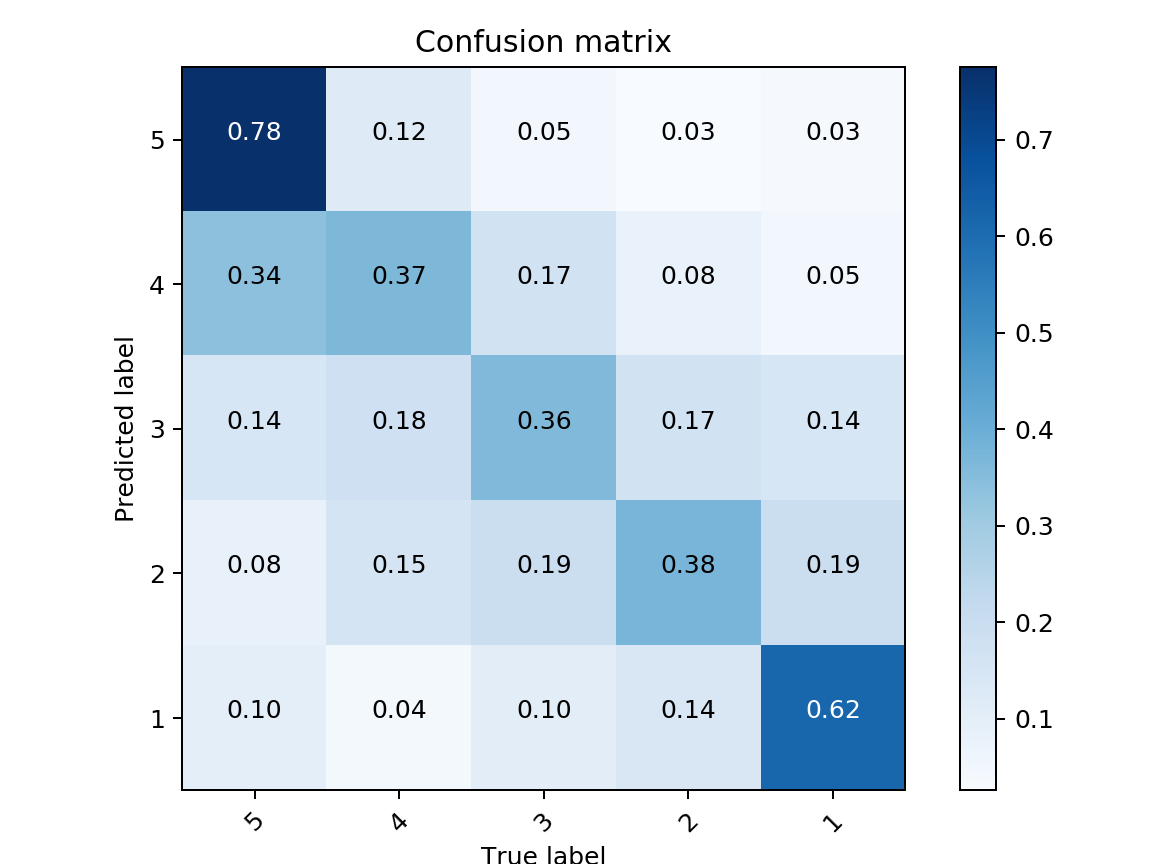
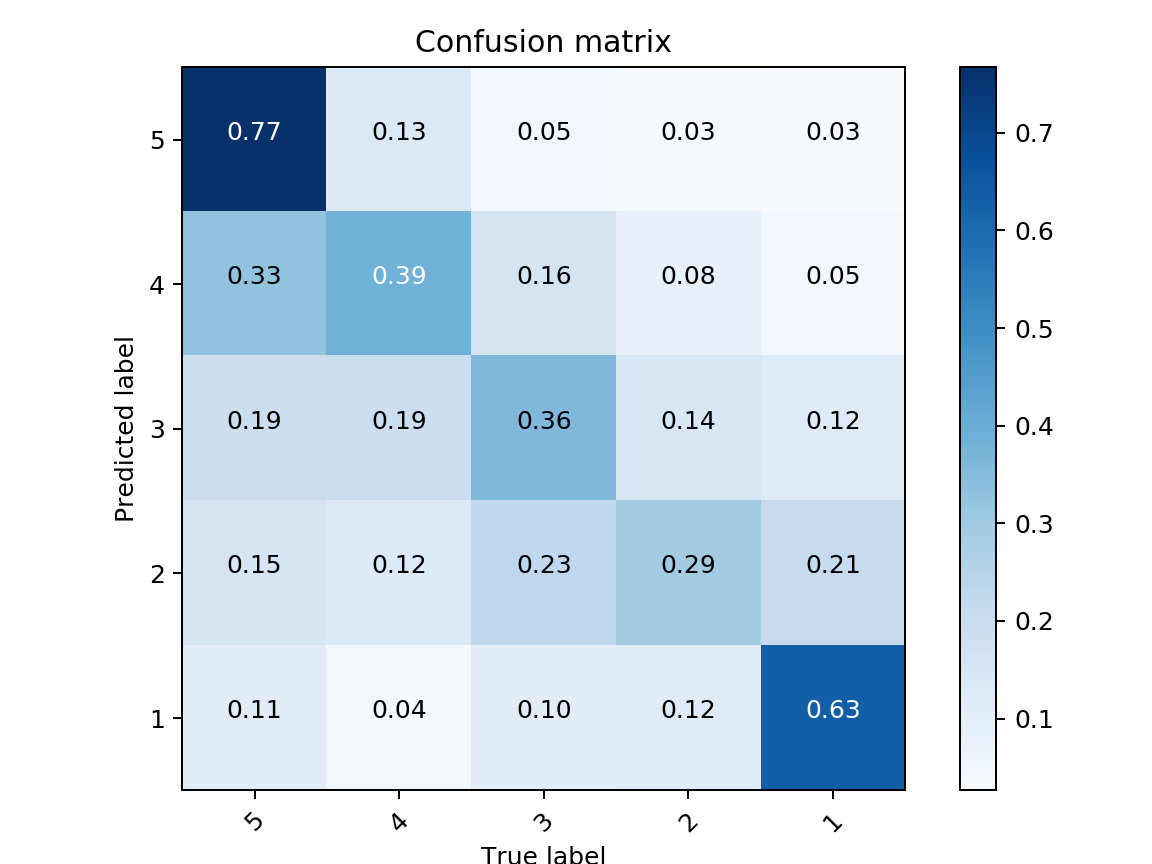
GUI update

diff --git a/gui/gui.py b/gui/gui.py
@@ -1,5 +1,6 @@
 import warnings
 warnings.filterwarnings("ignore",category=DeprecationWarning)
+warnings.filterwarnings("ignore",category=UserWarning)
 import sys
 import subprocess
 import pandas as pd
@@ -87,29 +88,41 @@ class App(QWidget):
 
         self.widget = QWidget(self)
 
-        self.regression_field = QLabel(self)
-        self.regression_field.setText('Label for regression model:')
+        self.type_model = QLabel(self)
+        self.type_model.setText('Type of model:')
         self.radio_group1 = QButtonGroup(self.widget)
+        self.logistic_regression = QRadioButton("Logistic Regression")
+        self.logistic_regression.setChecked(True)
+        self.random_forest = QRadioButton("RandomForest")
+        self.radio_group1.addButton(self.logistic_regression)
+        self.radio_group1.addButton(self.random_forest)
+
+        self.regression_field = QLabel(self)
+        self.regression_field.setText('Label for model:')
+        self.radio_group2 = QButtonGroup(self.widget)
         self.sentiment_sklearn_sa = QRadioButton("Sentiment")
         self.sentiment_sklearn_sa.setChecked(True)
         self.stars_sklearn_sa = QRadioButton("Stars")
-        self.radio_group1.addButton(self.sentiment_sklearn_sa)
-        self.radio_group1.addButton(self.stars_sklearn_sa)
+        self.radio_group2.addButton(self.sentiment_sklearn_sa)
+        self.radio_group2.addButton(self.stars_sklearn_sa)
 
         self.normalization = QLabel(self)
         self.normalization.setText('Confusion matrix:')
-        self.radio_group2 = QButtonGroup(self.widget)
+        self.radio_group3 = QButtonGroup(self.widget)
         self.normalized = QRadioButton("Normalized")
         self.normalized.setChecked(True)
         self.not_normalized = QRadioButton("Not-Normalized")
-        self.radio_group2.addButton(self.normalized)
-        self.radio_group2.addButton(self.not_normalized)
+        self.radio_group3.addButton(self.normalized)
+        self.radio_group3.addButton(self.not_normalized)
 
         self.button_sklearn_sa = QPushButton('Esegui', self)
         self.button_sklearn_sa.setToolTip('Esegui')
         self.button_sklearn_sa.clicked.connect(self.on_click_sklearn_sa)
 
         vbox = QVBoxLayout()
+        vbox.addWidget(self.type_model)
+        vbox.addWidget(self.logistic_regression)
+        vbox.addWidget(self.random_forest)
         vbox.addWidget(self.regression_field)
         vbox.addWidget(self.sentiment_sklearn_sa)
         vbox.addWidget(self.stars_sklearn_sa)
@@ -125,6 +138,10 @@ class App(QWidget):
 
     def on_click_sklearn_sa(self):
 
+        model_type = True
+        if self.random_forest.isChecked():
+            model_type = False
+
         analysis_field = ''
         if self.sentiment_sklearn_sa.isChecked():
             analysis_field = 'sentiment'
@@ -135,7 +152,7 @@ class App(QWidget):
         if self.not_normalized.isChecked():
             normalized = False
 
-        sklearn_sa(analysis_field, normalized)
+        sklearn_sa(analysis_field, model_type, normalized)
 
     def create_parameters_Base_Aspect_SA(self):
         groupBox = QGroupBox("Parameters for Based-Aspect SA")

diff --git a/gui/sklearn_sentiment_analysis.py b/gui/sklearn_sentiment_analysis.py
@@ -59,7 +59,7 @@ def plot_confusion_matrix(cm, analysis_field, classes,
     plt.savefig(f'graphs/confusion_matrix_{analysis_field}_{string_normalized}.png', dpi = 180)
     plt.show()
 
-def sklearn_sa(analysis_field, normalized, split_type = None, type = True):
+def sklearn_sa(analysis_field, type = True, normalized = True, split_type = None):
 
     df = pd.read_csv('../data/clean_dataset.csv', sep = ';', encoding='latin-1')
 
